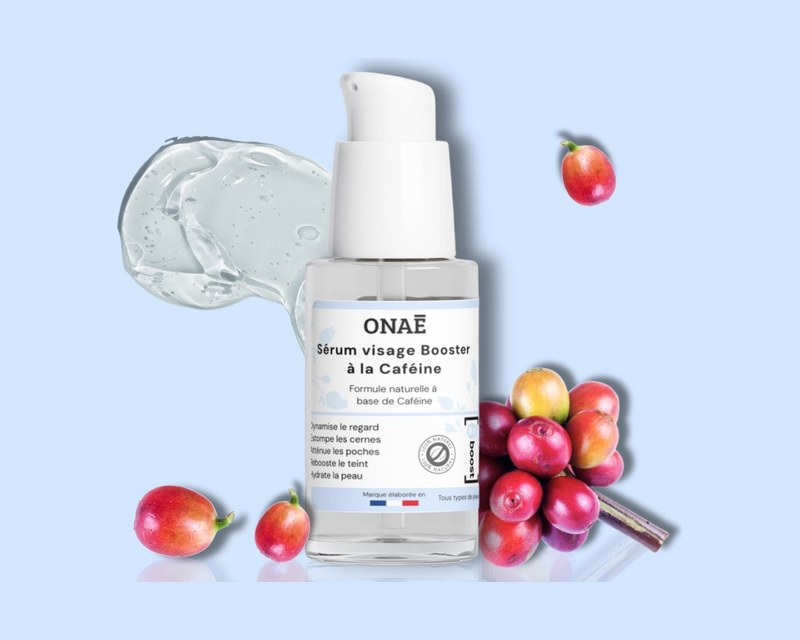
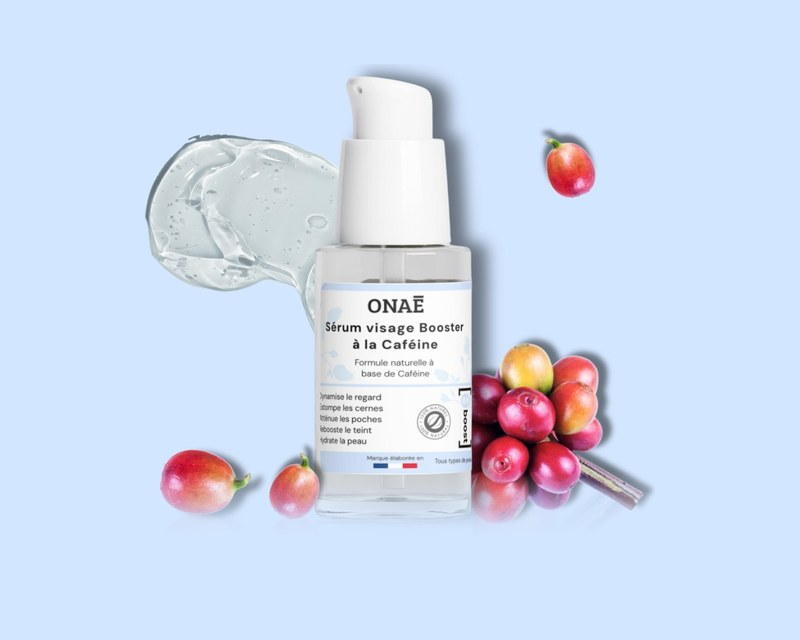
Accueil : cartes produits plus aérées, fondu en bas
Guillaume voyait les visuels coupés sur les côtés et en bas.
- .pimg-wrap passe en flex:0 0 auto dans les deux media queries :
  dans un rail flex, la carte la plus haute étirait les autres et le
  cadre image (flex-shrink:1 par défaut) se comprimait, ce qui faisait
  rogner le visuel par object-fit:cover.
- gen-card.py : sujet réduit (82 % de la largeur, 74 % de la hauteur),
  remonté à 47 %, et fondu sur les 14 % du bas pour supprimer la coupe
  nette là où le reflet était tronqué. Marges réelles : ~125 px
  latérales, 64 px en haut, 109 px en bas.
- URL des cartes en ?v=3 (cache images 24 h). products.json?v=221.

Claude-Session: https://claude.ai/code/session_017nLZ9yWdzh1WbcLi5DTaPR

Changed region(s): [[0.125, 0.0938, 0.875, 0.9062], [0.6562, 0.1875, 0.7812, 0.3438], [0.75, 0.875, 0.7812, 0.9062]]

diff --git a/index.html b/index.html
@@ -1288,7 +1288,7 @@ button{cursor:pointer;border:none;background:none;font-family:inherit}
   }
   function start(){ clearInterval(loop); if(reduce) return; loop = setInterval(() => { if(visible) show((cur + 1) % R.length); }, DUR); }
 
-  fetch('/products.json?v=220').then(r => r.json()).then(d => {
+  fetch('/products.json?v=221').then(r => r.json()).then(d => {
     (d.products || []).forEach(p => { const b = (p.bundles || [])[0]; if(b && b.price_raw > 0) by[p.id] = {id:p.id, name:p.name, l2:p.name_line2 || '', price:b.price_raw, orig:b.original_price_raw || 0, c:GC[p.gamme] || '#f0ece8', cat:p.category, gamme:p.gamme}; });
     R.splice(0, R.length, ...R.filter(r => r.ids.every(id => by[id])));
     if(!R.length) return;
@@ -1754,7 +1754,7 @@ html body :is(#products,#nouveautes) .pg-arr{display:none!important}
 @media(max-width:899px){
   html body :is(#products,#nouveautes) .products-grid{gap:12px;padding:0 20px 4px;scroll-padding-left:20px}
   html body :is(#products,#nouveautes) .pcard{min-width:0;max-width:none;flex:0 0 calc((100vw - 52px)/1.5)}
-  html body :is(#products,#nouveautes) .pimg-wrap{aspect-ratio:5/4}
+  html body :is(#products,#nouveautes) .pimg-wrap{aspect-ratio:5/4;flex:0 0 auto}
   html body :is(#products,#nouveautes) .pimg{width:100%;height:100%;object-fit:cover}
   html body :is(#products,#nouveautes) .pbadge{font-size:8.5px;letter-spacing:.14em;padding:4px 8px;top:8px;left:8px}
   html body :is(#products,#nouveautes) .pinfo{padding:12px 14px 14px}
@@ -1777,7 +1777,7 @@ html body :is(#products,#nouveautes) .pg-arr{display:none!important}
 }
 @media(min-width:900px){
   html body :is(#products,#nouveautes) .products-grid .pcard{flex:0 0 calc((100% - 88px)/5)}
-  html body :is(#products,#nouveautes) .pimg-wrap{aspect-ratio:5/4}
+  html body :is(#products,#nouveautes) .pimg-wrap{aspect-ratio:5/4;flex:0 0 auto}
   html body :is(#products,#nouveautes) .pimg{width:100%;height:100%;object-fit:cover}
   html body :is(#products,#nouveautes) .pinfo{padding:14px 16px 16px}
   html body :is(#products,#nouveautes) .pname{font-size:16px;line-height:1.22;margin-bottom:6px}
@@ -1959,7 +1959,7 @@ html body :is(#products,#nouveautes) .pg-arr{display:none!important}
     const off = p.price_before > raw ? Math.floor((1 - raw / p.price_before) * 100 + 1e-9) : 0;
     return `<a href="/produits/${p.id}" class="pcard">
         <div class="pimg-wrap">
-          <img decoding="async" class="pimg" src="${/^carte-cadeau/.test(p.id) ? p.image : 'card-' + p.id + '.jpg?v=2'}" alt="${p.image_alt}" loading="lazy">
+          <img decoding="async" class="pimg" src="${/^carte-cadeau/.test(p.id) ? p.image : 'card-' + p.id + '.jpg?v=3'}" alt="${p.image_alt}" loading="lazy">
           ${p.badge ? `<div class="pbadge" style="${badgeStyle}">${p.badge}</div>` : ''}
         </div>
         <div class="pinfo">
@@ -2063,7 +2063,7 @@ html body :is(#products,#nouveautes) .pg-arr{display:none!important}
     </div>`;
   }
 
-  fetch('/products.json?v=220')
+  fetch('/products.json?v=221')
     .then(r => r.json())
     .then(data => {
       const DEMO = new Set(['serum-eclat-peptides','creme-reparatrice-intense','essence-hydratante-pro','huile-nuit-reparatrice']);

diff --git a/makeup.html b/makeup.html
@@ -629,7 +629,7 @@ button{cursor:pointer;border:none;background:none;font-family:inherit}
   const G = document.getElementById('mkPrep');
   const fmt = n => n.toFixed(2).replace('.', ',') + ' €';
   const IDS = [['serum-anti-age-peptides','Étape 1 · Le sérum'],['creme-contour-yeux-peptides','Étape 2 · Le regard'],['creme-anti-age-peptides','Étape 3 · La crème']];
-  fetch('products.json?v=220').then(r => r.json()).then(d => { const P = d.products || d;
+  fetch('products.json?v=221').then(r => r.json()).then(d => { const P = d.products || d;
     G.innerHTML = IDS.map(([id, st]) => { const p = P.find(x => x.id === id); if(!p) return ''; const b = (p.bundles || [])[0] || {};
       const pr = b.price_raw, ref = b.original_price_raw, off = ref > pr ? Math.floor((1 - pr/ref)*100) : 0;
       return `<article class="mk-pc rv in"><a class="im" href="/produits/${p.id}"><img src="bar-${p.id}-hd.jpg" alt="${p.name} ${p.name_line2 || ''}" loading="lazy"></a><div class="bd"><p class="st">${st}</p><h3>${p.name} ${p.name_line2 || ''}</h3><div class="pr"><b>${pr ? fmt(pr) : ''}</b>${off ? `<s>${fmt(ref)}</s><em>−${off} %</em>` : ''}</div><div class="ac"><a href="/produits/${p.id}">Découvrir</a><button type="button" data-add-to-cart="${p.id}">Ajouter</button></div></div></article>`; }).join('');

diff --git a/homme.html b/homme.html
@@ -649,7 +649,7 @@ button{cursor:pointer;border:none;background:none;font-family:inherit}
   const G = document.getElementById('hmPrep');
   const fmt = n => n.toFixed(2).replace('.', ',') + ' €';
   const IDS = [['serum-booster-cafeine','Le coup de fouet'],['patchs-yeux-cafeine-vitamine-c','Le regard express'],['huile-fortifiante-romarin','La force du cheveu']];
-  fetch('products.json?v=220').then(r => r.json()).then(d => { const P = d.products || d;
+  fetch('products.json?v=221').then(r => r.json()).then(d => { const P = d.products || d;
     G.innerHTML = IDS.map(([id, st]) => { const p = P.find(x => x.id === id); if(!p) return ''; const b = (p.bundles || [])[0] || {};
       const pr = b.price_raw, ref = b.original_price_raw, off = ref > pr ? Math.floor((1 - pr/ref)*100) : 0;
       return `<article class="hm-pc rv in"><a class="im" href="/produits/${p.id}"><img src="bar-${p.id}-hd.jpg" alt="${p.name} ${p.name_line2 || ''}" loading="lazy"></a><div class="bd"><p class="st">${st}</p><h3>${p.name} ${p.name_line2 || ''}</h3><div class="pr"><b>${pr ? fmt(pr) : ''}</b>${off ? `<s>${fmt(ref)}</s><em>−${off} %</em>` : ''}</div><div class="ac"><a href="/produits/${p.id}">Découvrir</a><button type="button" data-add-to-cart="${p.id}">Ajouter</button></div></div></article>`; }).join('');

diff --git a/panier.html b/panier.html
@@ -1076,7 +1076,7 @@ body{background:#fbf7f8}
   /* ═══ Recommandations « qui font sens » + upsell avant paiement ═══ */
   const DEMO = new Set(['serum-eclat-peptides','creme-reparatrice-intense','essence-hydratante-pro','huile-nuit-reparatrice']);
   let PRODS = {};
-  const prodsReady = fetch('/products.json?v=220').then(r => r.json()).then(d => { (d.products || []).forEach(p => PRODS[p.id] = p); }).catch(() => {});
+  const prodsReady = fetch('/products.json?v=221').then(r => r.json()).then(d => { (d.products || []).forEach(p => PRODS[p.id] = p); }).catch(() => {});
   const kindOf = p => { const n = (p.name || '').toLowerCase(), c = p.category || 'visage';
     if (c === 'cheveux') return /shampoing/.test(n) ? 'shampoing' : /masque/.test(n) ? 'masque' : /huile/.test(n) ? 'huile' : /gommage/.test(n) ? 'gommage' : /brume/.test(n) ? 'brume-cheveux' : /sérum/.test(n) ? 'serum-cuir' : 'soin-cheveux';
     if (/patchs/.test(n)) return 'patchs'; if (c === 'yeux') return 'contour'; if (/peeling/.test(n)) return 'peeling'; if (/brume/.test(n)) return 'brume'; if (/sérum/.test(n)) return 'serum'; if (/crème/.test(n)) return 'creme'; return 'autre'; };

diff --git a/bar-a-routines.html b/bar-a-routines.html
@@ -459,7 +459,7 @@ body{background:#fff}
     {n:'Cheveux de soie', t:'Cheveux', d:'La kératine pour réparer, le romarin pour fortifier : des longueurs brillantes et souples.', bg:'#f9db86', ids:['shampoing-keratine','masque-cheveux-keratine','huile-fortifiante-romarin']}];
   const fmt = n => n.toFixed(2).replace('.', ',') + ' €', pct = (r, p) => r > p ? Math.floor((1 - p / r) * 100 + 1e-9) : 0;
   const barP = s => { const t = Math.floor(Math.round(s * 100) * .8); return (Math.floor((t + 1) / 100) * 100 - 1) / 100; };
-  fetch('/products.json?v=220').then(r => r.json()).then(d => {
+  fetch('/products.json?v=221').then(r => r.json()).then(d => {
     const by = {}; (d.products || []).forEach(p => by[p.id] = p);
     document.getElementById('biGrid').innerHTML = TRIOS.map((T, k) => { const ps = T.ids.map(i => by[i]).filter(Boolean); if(ps.length !== 3) return '';
       const sum = ps.reduce((s,p) => s + p.bundles[0].price_raw, 0), ref = ps.reduce((s,p) => s + (p.bundles[0].original_price_raw || p.bundles[0].price_raw), 0), pr = barP(sum);

diff --git a/nos-ingredients.html b/nos-ingredients.html
@@ -522,12 +522,12 @@ body{background:var(--paper)}
     }).join('');
     watch();
   }
-  fetch('/products.json?v=220').then(r => r.json()).then(d => render(d.products || [])).catch(() => render([]));
+  fetch('/products.json?v=221').then(r => r.json()).then(d => render(d.products || [])).catch(() => render([]));
   watch();
 
 
   /* ═ peptides : produits + molécule 3D ═ */
-  fetch('/products.json?v=220').then(r => r.json()).then(d => {
+  fetch('/products.json?v=221').then(r => r.json()).then(d => {
     const box = $('ppProds'), DEMO2 = ['serum-eclat-peptides','creme-reparatrice-intense','essence-hydratante-pro','huile-nuit-reparatrice'];
     (d.products || []).filter(p => !DEMO2.includes(p.id) && /hexapeptide|dipalmitoyl/i.test((p.ingredients_full || '') + (p.ingredients || []).join(' '))).forEach(p => {
       const a = document.createElement('a'); a.href = '/produits/' + p.id; a.innerHTML = `<img src="cart-${p.id}.jpg" alt="">${p.name}${p.name_line2 ? ' ' + p.name_line2 : ''}`; box.appendChild(a);

diff --git a/blog-acide-hyaluronique-guide.html b/blog-acide-hyaluronique-guide.html
@@ -798,7 +798,7 @@ if(sb) sb.addEventListener('click', async ()=>{ const d = {title: document.title
   try{ if(navigator.share) await navigator.share(d); else { await navigator.clipboard.writeText(location.href); sb.querySelector('span').textContent = 'Lien copié ✓'; setTimeout(()=> sb.querySelector('span').textContent = "Partager l'article", 2000); } }catch(_){} });
 </script>
 <script>
-fetch('/products.json?v=220').then(r=>r.json()).then(d=>{const m={};(d.products||[]).forEach(p=>{const s=(p.bundles||[]).find(b=>b.id==='solo');if(s)m[p.id]=s.price;});
+fetch('/products.json?v=221').then(r=>r.json()).then(d=>{const m={};(d.products||[]).forEach(p=>{const s=(p.bundles||[]).find(b=>b.id==='solo');if(s)m[p.id]=s.price;});
 document.querySelectorAll('.pc-price[data-pid]').forEach(el=>{if(m[el.dataset.pid])el.textContent=m[el.dataset.pid];});}).catch(()=>{});
 </script>
 <script src="cart.js?v=11"></script>

diff --git a/blog-alternative-retinol.html b/blog-alternative-retinol.html
@@ -798,7 +798,7 @@ if(sb) sb.addEventListener('click', async ()=>{ const d = {title: document.title
   try{ if(navigator.share) await navigator.share(d); else { await navigator.clipboard.writeText(location.href); sb.querySelector('span').textContent = 'Lien copié ✓'; setTimeout(()=> sb.querySelector('span').textContent = "Partager l'article", 2000); } }catch(_){} });
 </script>
 <script>
-fetch('/products.json?v=220').then(r=>r.json()).then(d=>{const m={};(d.products||[]).forEach(p=>{const s=(p.bundles||[]).find(b=>b.id==='solo');if(s)m[p.id]=s.price;});
+fetch('/products.json?v=221').then(r=>r.json()).then(d=>{const m={};(d.products||[]).forEach(p=>{const s=(p.bundles||[]).find(b=>b.id==='solo');if(s)m[p.id]=s.price;});
 document.querySelectorAll('.pc-price[data-pid]').forEach(el=>{if(m[el.dataset.pid])el.textContent=m[el.dataset.pid];});}).catch(()=>{});
 </script>
 <script src="cart.js?v=11"></script>

diff --git a/blog-cernes-et-poches.html b/blog-cernes-et-poches.html
@@ -798,7 +798,7 @@ if(sb) sb.addEventListener('click', async ()=>{ const d = {title: document.title
   try{ if(navigator.share) await navigator.share(d); else { await navigator.clipboard.writeText(location.href); sb.querySelector('span').textContent = 'Lien copié ✓'; setTimeout(()=> sb.querySelector('span').textContent = "Partager l'article", 2000); } }catch(_){} });
 </script>
 <script>
-fetch('/products.json?v=220').then(r=>r.json()).then(d=>{const m={};(d.products||[]).forEach(p=>{const s=(p.bundles||[]).find(b=>b.id==='solo');if(s)m[p.id]=s.price;});
+fetch('/products.json?v=221').then(r=>r.json()).then(d=>{const m={};(d.products||[]).forEach(p=>{const s=(p.bundles||[]).find(b=>b.id==='solo');if(s)m[p.id]=s.price;});
 document.querySelectorAll('.pc-price[data-pid]').forEach(el=>{if(m[el.dataset.pid])el.textContent=m[el.dataset.pid];});}).catch(()=>{});
 </script>
 <script src="cart.js?v=11"></script>

diff --git a/blog-cuir-chevelu-gras-pellicules.html b/blog-cuir-chevelu-gras-pellicules.html
@@ -798,7 +798,7 @@ if(sb) sb.addEventListener('click', async ()=>{ const d = {title: document.title
   try{ if(navigator.share) await navigator.share(d); else { await navigator.clipboard.writeText(location.href); sb.querySelector('span').textContent = 'Lien copié ✓'; setTimeout(()=> sb.querySelector('span').textContent = "Partager l'article", 2000); } }catch(_){} });
 </script>
 <script>
-fetch('/products.json?v=220').then(r=>r.json()).then(d=>{const m={};(d.products||[]).forEach(p=>{const s=(p.bundles||[]).find(b=>b.id==='solo');if(s)m[p.id]=s.price;});
+fetch('/products.json?v=221').then(r=>r.json()).then(d=>{const m={};(d.products||[]).forEach(p=>{const s=(p.bundles||[]).find(b=>b.id==='solo');if(s)m[p.id]=s.price;});
 document.querySelectorAll('.pc-price[data-pid]').forEach(el=>{if(m[el.dataset.pid])el.textContent=m[el.dataset.pid];});}).catch(()=>{});
 </script>
 <script src="cart.js?v=11"></script>

diff --git a/blog-keratine-cheveux-abimes.html b/blog-keratine-cheveux-abimes.html
@@ -798,7 +798,7 @@ if(sb) sb.addEventListener('click', async ()=>{ const d = {title: document.title
   try{ if(navigator.share) await navigator.share(d); else { await navigator.clipboard.writeText(location.href); sb.querySelector('span').textContent = 'Lien copié ✓'; setTimeout(()=> sb.querySelector('span').textContent = "Partager l'article", 2000); } }catch(_){} });
 </script>
 <script>
-fetch('/products.json?v=220').then(r=>r.json()).then(d=>{const m={};(d.products||[]).forEach(p=>{const s=(p.bundles||[]).find(b=>b.id==='solo');if(s)m[p.id]=s.price;});
+fetch('/products.json?v=221').then(r=>r.json()).then(d=>{const m={};(d.products||[]).forEach(p=>{const s=(p.bundles||[]).find(b=>b.id==='solo');if(s)m[p.id]=s.price;});
 document.querySelectorAll('.pc-price[data-pid]').forEach(el=>{if(m[el.dataset.pid])el.textContent=m[el.dataset.pid];});}).catch(()=>{});
 </script>
 <script src="cart.js?v=11"></script>

diff --git a/blog-lire-une-liste-inci.html b/blog-lire-une-liste-inci.html
@@ -798,7 +798,7 @@ if(sb) sb.addEventListener('click', async ()=>{ const d = {title: document.title
   try{ if(navigator.share) await navigator.share(d); else { await navigator.clipboard.writeText(location.href); sb.querySelector('span').textContent = 'Lien copié ✓'; setTimeout(()=> sb.querySelector('span').textContent = "Partager l'article", 2000); } }catch(_){} });
 </script>
 <script>
-fetch('/products.json?v=220').then(r=>r.json()).then(d=>{const m={};(d.products||[]).forEach(p=>{const s=(p.bundles||[]).find(b=>b.id==='solo');if(s)m[p.id]=s.price;});
+fetch('/products.json?v=221').then(r=>r.json()).then(d=>{const m={};(d.products||[]).forEach(p=>{const s=(p.bundles||[]).find(b=>b.id==='solo');if(s)m[p.id]=s.price;});
 document.querySelectorAll('.pc-price[data-pid]').forEach(el=>{if(m[el.dataset.pid])el.textContent=m[el.dataset.pid];});}).catch(()=>{});
 </script>
 <script src="cart.js?v=11"></script>
